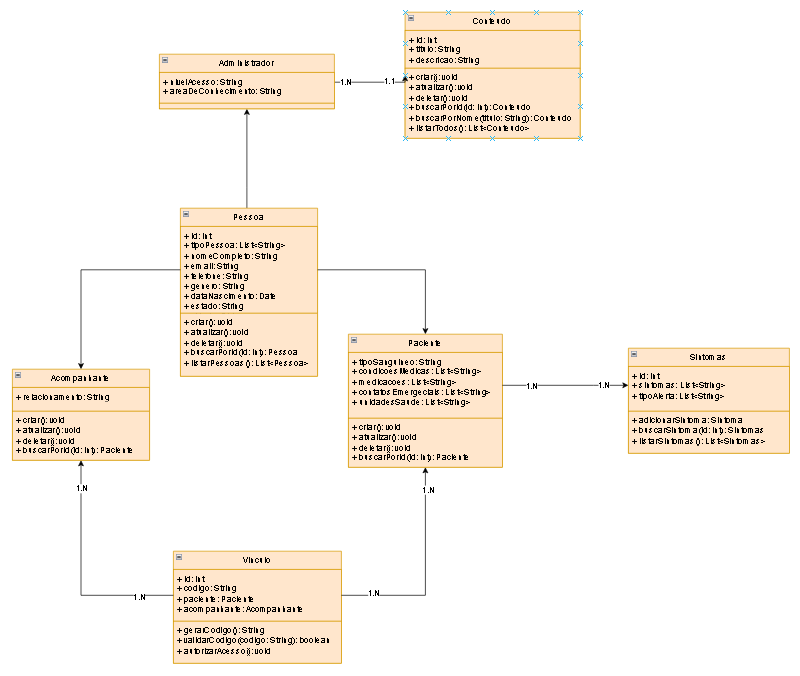
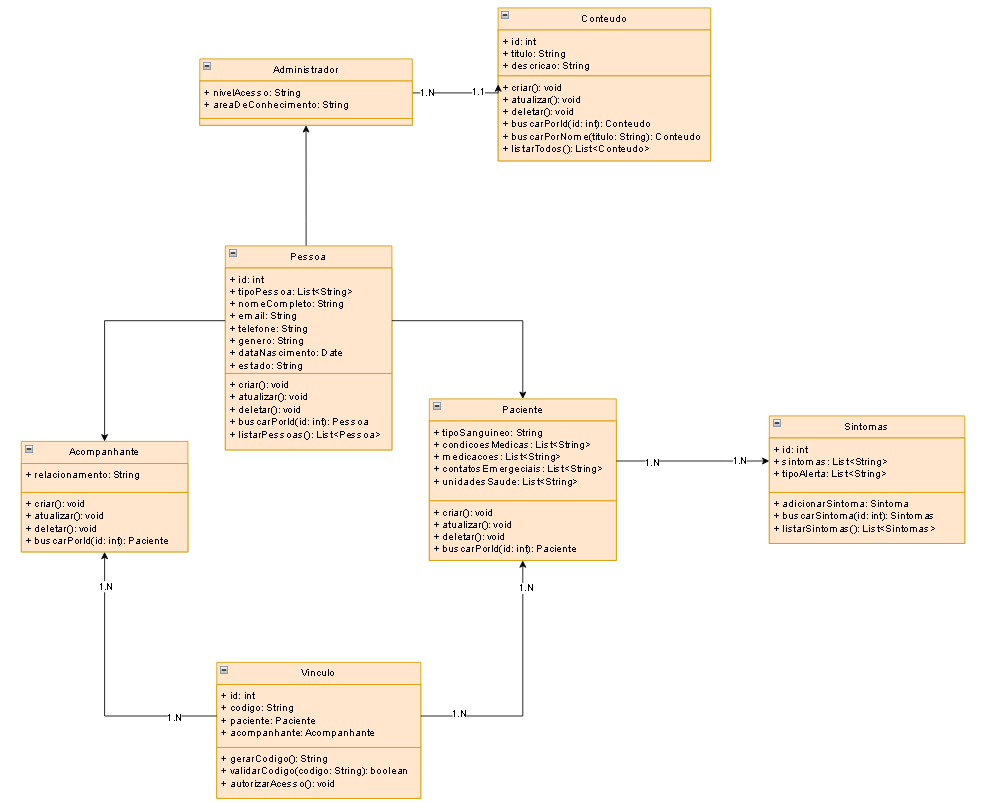
📚 docs: melhora de resolucao no diagrama de classes

Changed region(s): [[0.1875, 0.0, 1.0, 0.7145], [0.0, 0.4038, 0.5312, 1.0]]

diff --git a/README.md b/README.md
@@ -88,7 +88,7 @@ Com base na prototipação de autofidelização do cliente, desenvolvemos nossa 
 
 ### Diagrama de Classes
 
-<img src="./img/diagrama-de-classes.png" alt="Diagrama de Classes" height="700px"><br>
+<img src="./img/diagrama-de-classes.png" alt="Diagrama de Classes" height="850px"><br>
 
 <details>
     <summary><strong>Entenda o Paciente</strong></summary>
